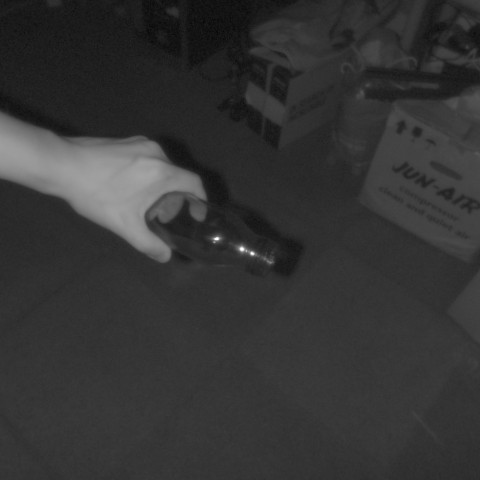
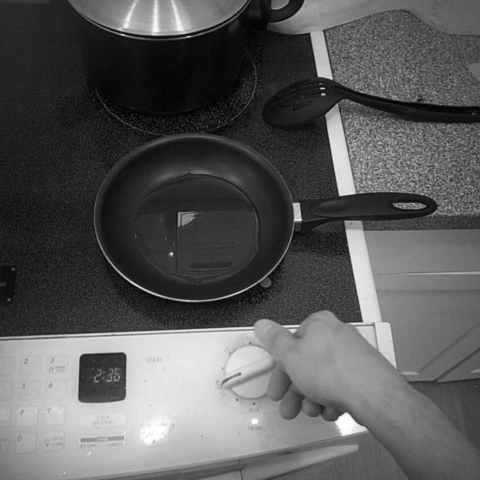
update

diff --git a/img_process/imgs_processing_workspace.py b/img_process/imgs_processing_workspace.py
@@ -81,22 +81,22 @@ if __name__ == '__main__':
     # )
 
     # tools_box.resize_and_convert_image(
-    #     input_folder='temp',
-    #     output_folder='temp_temp',
+    #     input_folder='temp_temp',
+    #     output_folder='temp_out',
     #     target_size=(640, 480),
     # )
-    #
-    # tools_box.center_crop_to_square(
-    #     input_folder='temp_temp',
-    #     output_folder='temp_output',
-    # )
+
+    tools_box.center_crop_to_square(
+        input_folder='temp',
+        output_folder='temp_output',
+    )
 
     # tools_box.convert_folder_to_grayscale(
     #     input_dir='temp',
     #     output_dir='temp_out',
     # )
-    tools_box.binarize_images(
-        input_dir='temp',
-        output_dir='temp_out',
-        threshold=254
-    )
+    # tools_box.binarize_images(
+    #     input_dir='temp',
+    #     output_dir='temp_out',
+    #     threshold=254
+    # )
